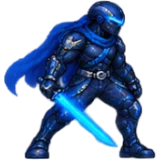
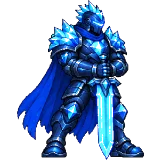
Regenerate glass warden animations

diff --git a/docs/prompts/QUEUE-LOG.md b/docs/prompts/QUEUE-LOG.md
@@ -11,3 +11,5 @@
 14:24 glass-warden special attempt 1 → PASS
 14:32 pitz action attempt 4 → PASS
 14:33 pitz committed: PASS — baseline escalation step 1 (failing rule first and bolded)
+14:38 glass-warden hurt attempt 1 → PASS
+14:45 glass-warden defeat attempt 1 → PASS
